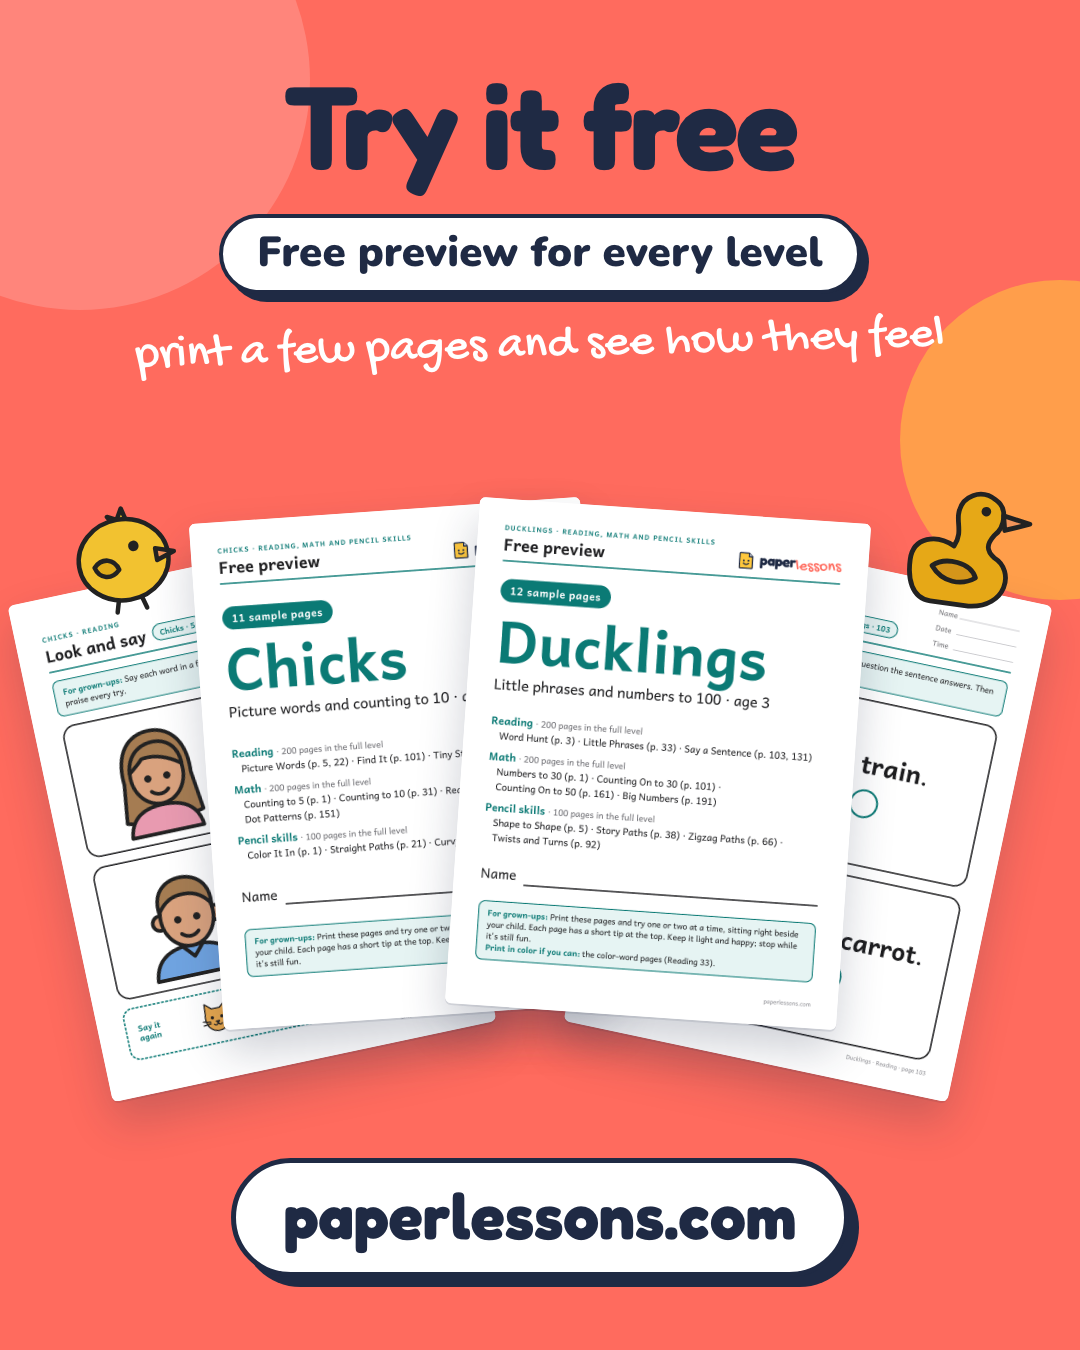
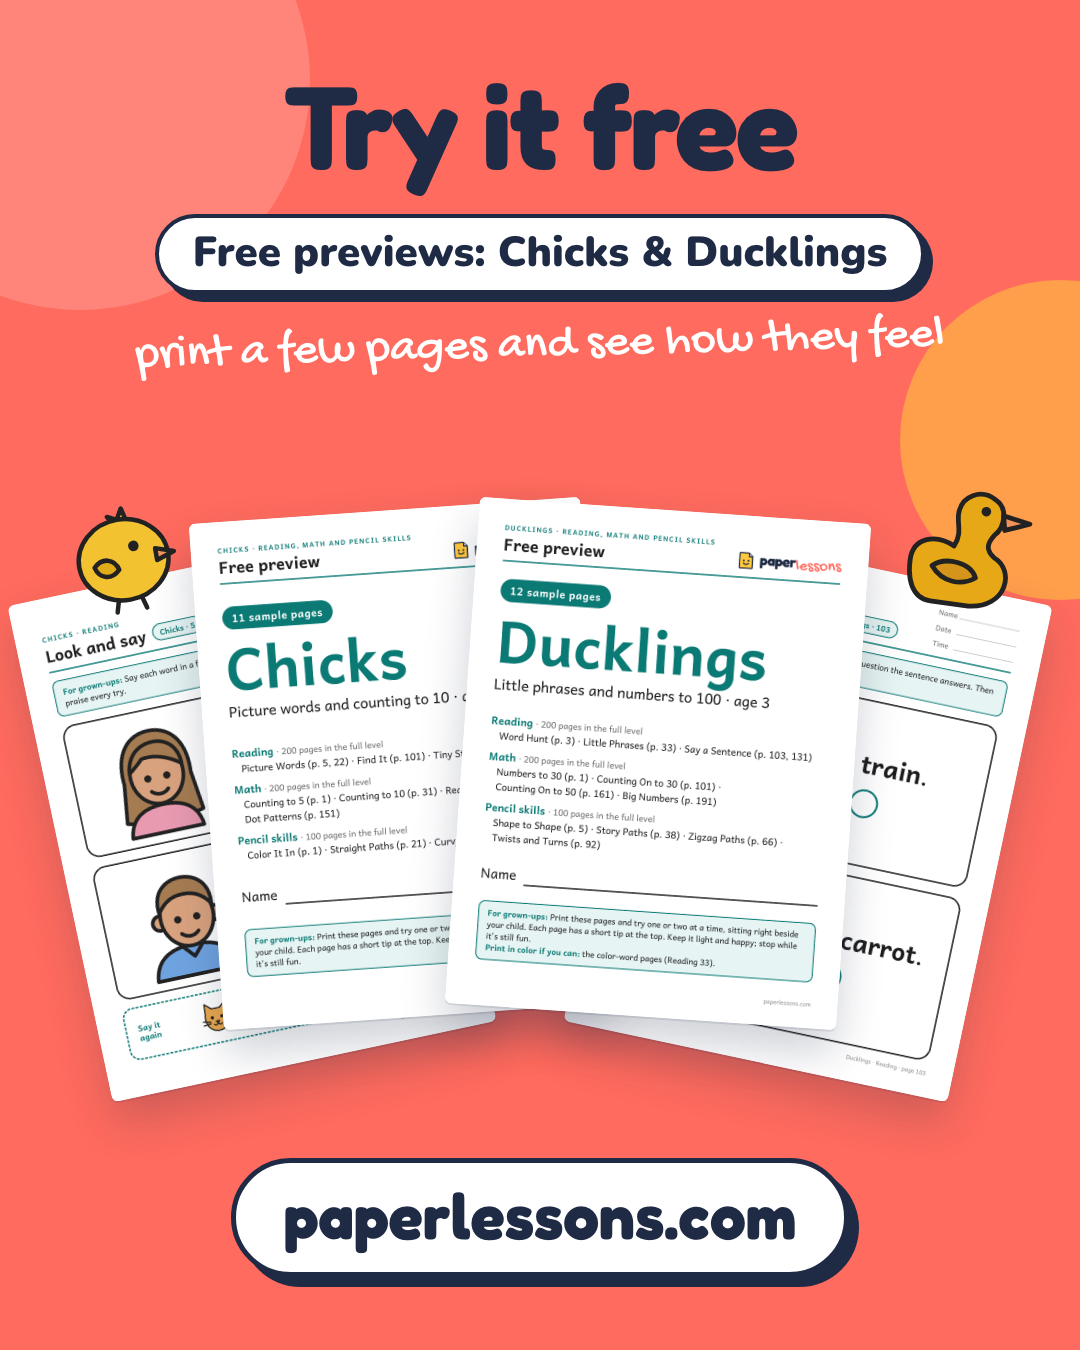
marketing/instagram: previews pill names Chicks & Ducklings; grid header matches real profile
Claude-Session: https://claude.ai/code/session_01G3RaoCsPFUWHqcF2R7D6Dn

Changed region(s): [[0.1222, 0.1556, 0.8861, 0.2489]]

diff --git a/scripts/marketing/instagram_launch.py b/scripts/marketing/instagram_launch.py
@@ -382,7 +382,7 @@ def post_previews() -> str:
 <div class="blob" style="right:-140px;top:280px;width:320px;height:320px;background:{SUN};opacity:.55"></div>
 <div class="abs fred" style="left:60px;right:60px;top:66px;text-align:center;font-size:118px">Try it free</div>
 <div class="abs" style="left:0;right:0;top:214px;display:flex;justify-content:center">
-  <span class="chip" style="font-size:42px;padding:10px 34px 12px;box-shadow:8px 8px 0 {INK}">Free preview for every level</span></div>
+  <span class="chip" style="font-size:42px;padding:10px 34px 12px;box-shadow:8px 8px 0 {INK}">Free previews: Chicks &amp; Ducklings</span></div>
 <div class="abs hand" style="left:60px;right:60px;top:318px;text-align:center;font-size:48px;color:#fff;transform:rotate(-1.5deg)">
   print a few pages and see how they feel</div>
 {fan}
@@ -519,13 +519,13 @@ See all thirteen levels at the link in bio.""",
         "files": ["post.png"],
         "caption": """Try it free 🎁
 
-Every level gets a free preview: a handful of real pages to print and try before you buy. Chicks and Ducklings previews are ready now, and each new level gets its own as it opens.
+Chicks and Ducklings each have a free preview: a handful of real pages to print and try before you buy. More levels coming soon, each with its own free preview.
 
 Print a few pages, sit down together, and see how they feel.
 
-👉 paperlessons.com (link in bio)""",
+👉 Free previews at the link in bio.""",
         "tags": f"{TAGS_BASE} #freeprintables #freeworksheets #learnathome #preschoolmom #printables #paperlessons",
-        "alt": "Coral background titled \"Try it free\" with a white label \"Free preview for every level\". Four real preview pages from Chicks and Ducklings are fanned out like playing cards, with a chick and a duckling peeking over them, and paperlessons.com at the bottom.",
+        "alt": "Coral background titled \"Try it free\" with a white label \"Free previews: Chicks & Ducklings\". Four real preview pages from Chicks and Ducklings are fanned out like playing cards, with a chick and a duckling peeking over them, and paperlessons.com at the bottom.",
     },
 }
 
@@ -560,9 +560,10 @@ def grid_preview() -> str:
   <img src="{AVATAR}" style="width:190px;height:190px;border-radius:50%;border:2px solid #ddd" alt="">
   <div style="font-family:Nunito;color:#111">
     <div style="font-size:40px;font-weight:900">paper.lessons</div>
-    <div style="font-size:30px;font-weight:800;margin-top:8px">paperlessons &middot; printable practice</div>
-    <div style="font-size:27px;font-weight:400;margin-top:8px;line-height:1.35;max-width:790px">Printable reading &amp; math for ages 3&ndash;12 ✏ About two grades ahead of school. A few pages a day. Free previews ↓</div>
-    <div style="font-size:28px;font-weight:800;margin-top:6px;color:#00376b">paperlessons.com</div>
+    <div style="font-size:30px;font-weight:800;margin-top:8px">Paper Lessons - Printable Worksheets for Kids</div>
+    <div style="font-size:27px;font-weight:400;margin-top:6px;color:#737373">Education</div>
+    <div style="font-size:27px;font-weight:400;margin-top:4px;line-height:1.35;max-width:790px">Printable reading &amp; math for ages 3&ndash;12 ✏ About two grades ahead of school. A few pages a day. Free previews ↓</div>
+    <div style="font-size:28px;font-weight:800;margin-top:6px;color:#00376b">paperlessons.com/ig</div>
   </div></div>
 <div style="display:grid;grid-template-columns:repeat(3,1fr);gap:4px">{tiles}</div>
 """

diff --git a/marketing/instagram/posts/06-free-previews/caption.md b/marketing/instagram/posts/06-free-previews/caption.md
@@ -6,14 +6,14 @@ Images: `post.png`
 
 Try it free 🎁
 
-Every level gets a free preview: a handful of real pages to print and try before you buy. Chicks and Ducklings previews are ready now, and each new level gets its own as it opens.
+Chicks and Ducklings each have a free preview: a handful of real pages to print and try before you buy. More levels coming soon, each with its own free preview.
 
 Print a few pages, sit down together, and see how they feel.
 
-👉 paperlessons.com (link in bio)
+👉 Free previews at the link in bio.
 
 #printableworksheets #kidsworksheets #homelearning #preschoolactivities #kindergartenreadiness #freeprintables #freeworksheets #learnathome #preschoolmom #printables #paperlessons
 
 ## Alt text
 
-Coral background titled "Try it free" with a white label "Free preview for every level". Four real preview pages from Chicks and Ducklings are fanned out like playing cards, with a chick and a duckling peeking over them, and paperlessons.com at the bottom.
+Coral background titled "Try it free" with a white label "Free previews: Chicks & Ducklings". Four real preview pages from Chicks and Ducklings are fanned out like playing cards, with a chick and a duckling peeking over them, and paperlessons.com at the bottom.
